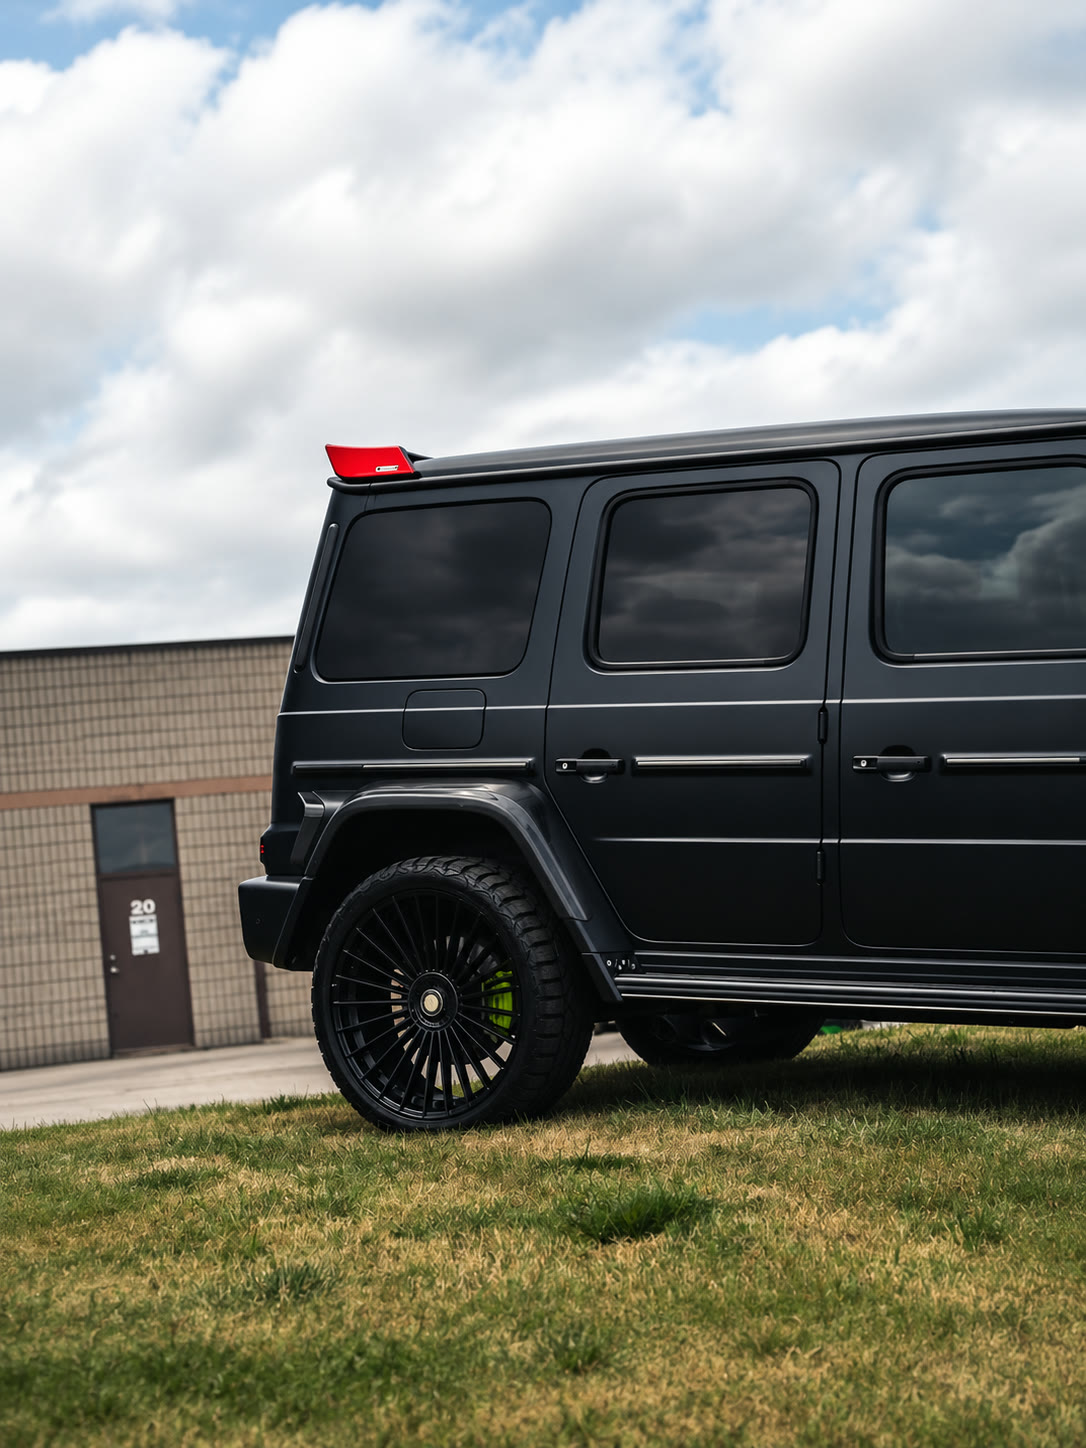
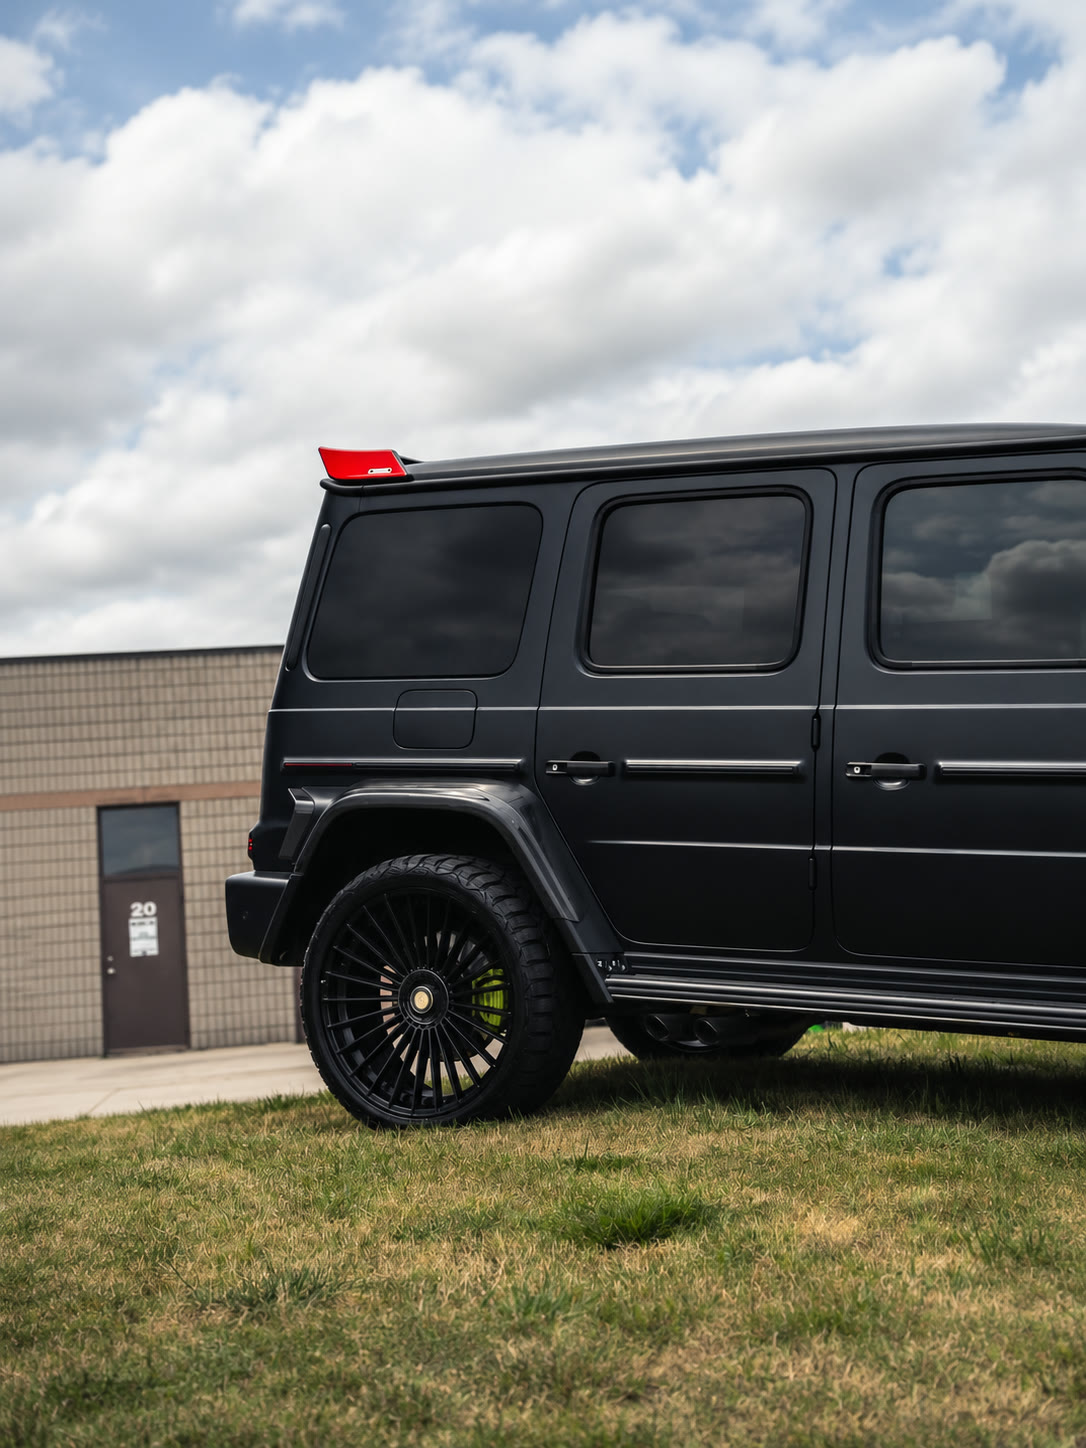
Homepage cards: new matte G-Wagon tint photo; Ceramic card uses the SRT coating shot

diff --git a/src/components/original-services/ServicesSection.jsx b/src/components/original-services/ServicesSection.jsx
@@ -10,7 +10,8 @@ import styles from './ServicesSection.module.css';
 // Client-supplied 2026-11-04: gloss-pink Aventador, carbon bonnet, bronze wheels.
 import imgWraps from '../../../Wraptors Media/Wraps/wraps-aventador-pink-carbon.jpg';
 import imgPPF from '../../../Signture Section/Aston_Martin(4).jpeg';
-import imgCeramic from '../../../Ceramic Coating(new1).jpeg';
+// Client-supplied 2026-11-04: coating wiped onto a matte-pink SRT bonnet.
+import imgCeramic from '../../../Ceramic Coating(new3).jpeg';
 // Client-supplied 2026-11-04: matte-black G-Wagon with dark tinted windows.
 import imgTint from '../../../Wraptors Media/Tint/tint-gwagon-black.jpg';
 // Last photo in the Starlight page's "A Closer Look" gallery.
@@ -40,6 +41,7 @@ const SERVICES = [
     to: '/services/ceramic/',
     description: 'Long-lasting gloss and hydrophobic protection for easier maintenance.',
     image: imgCeramic,
+    imgPos: 'center 45%',
     size: 'standard',
     imgPos: 'center 25%',
   },
